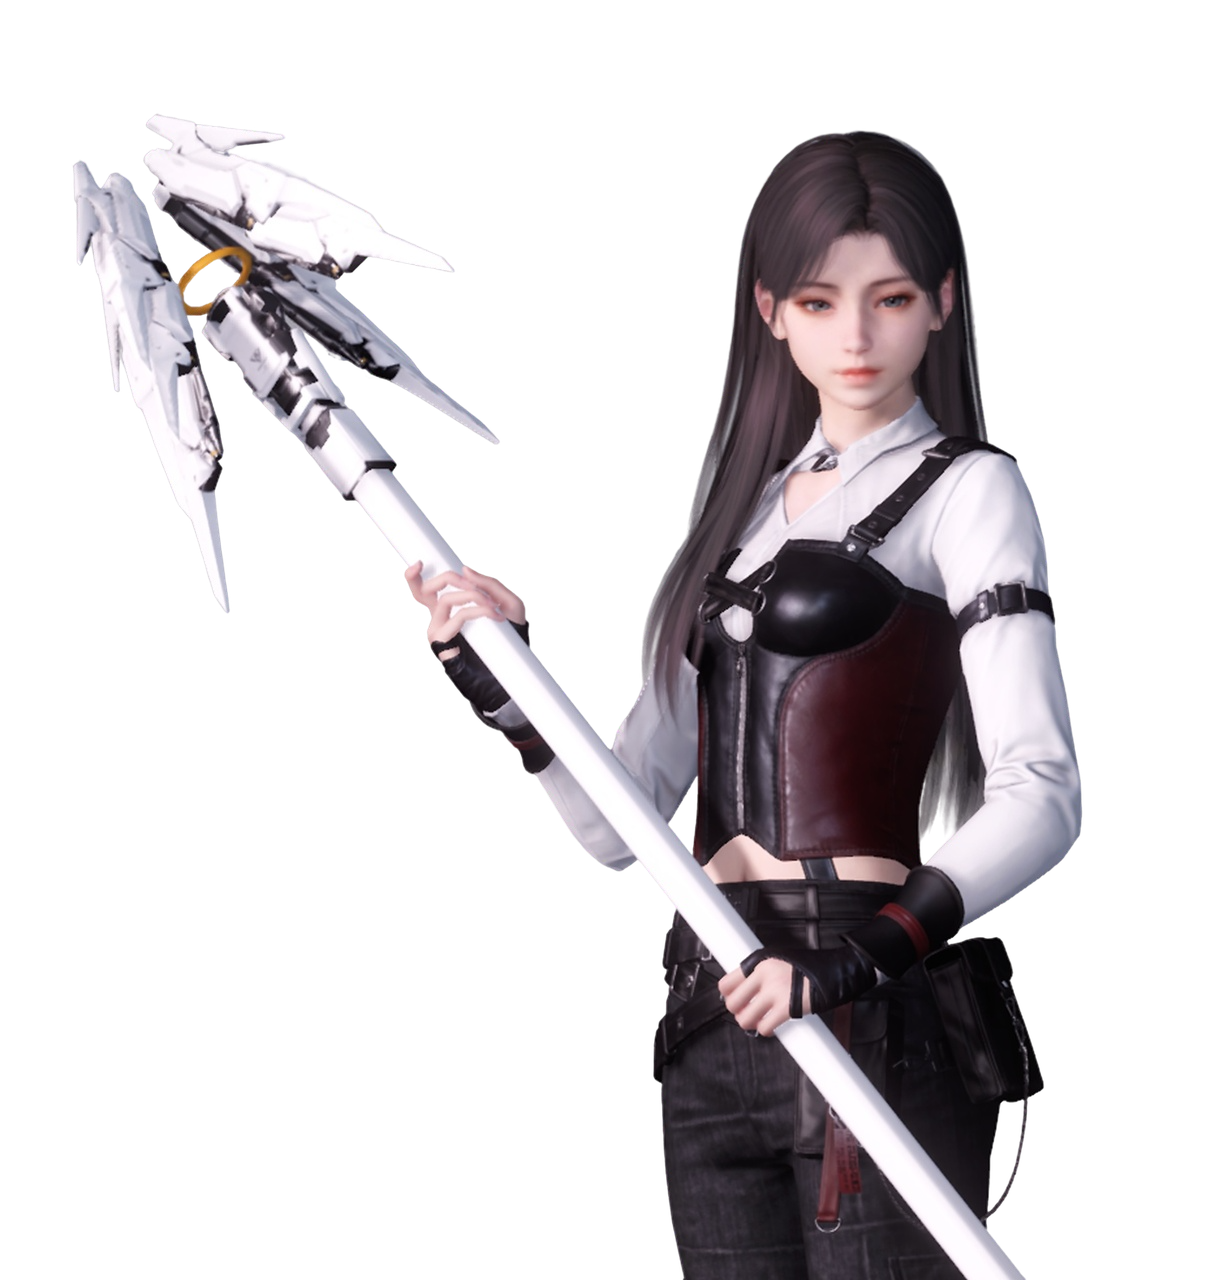
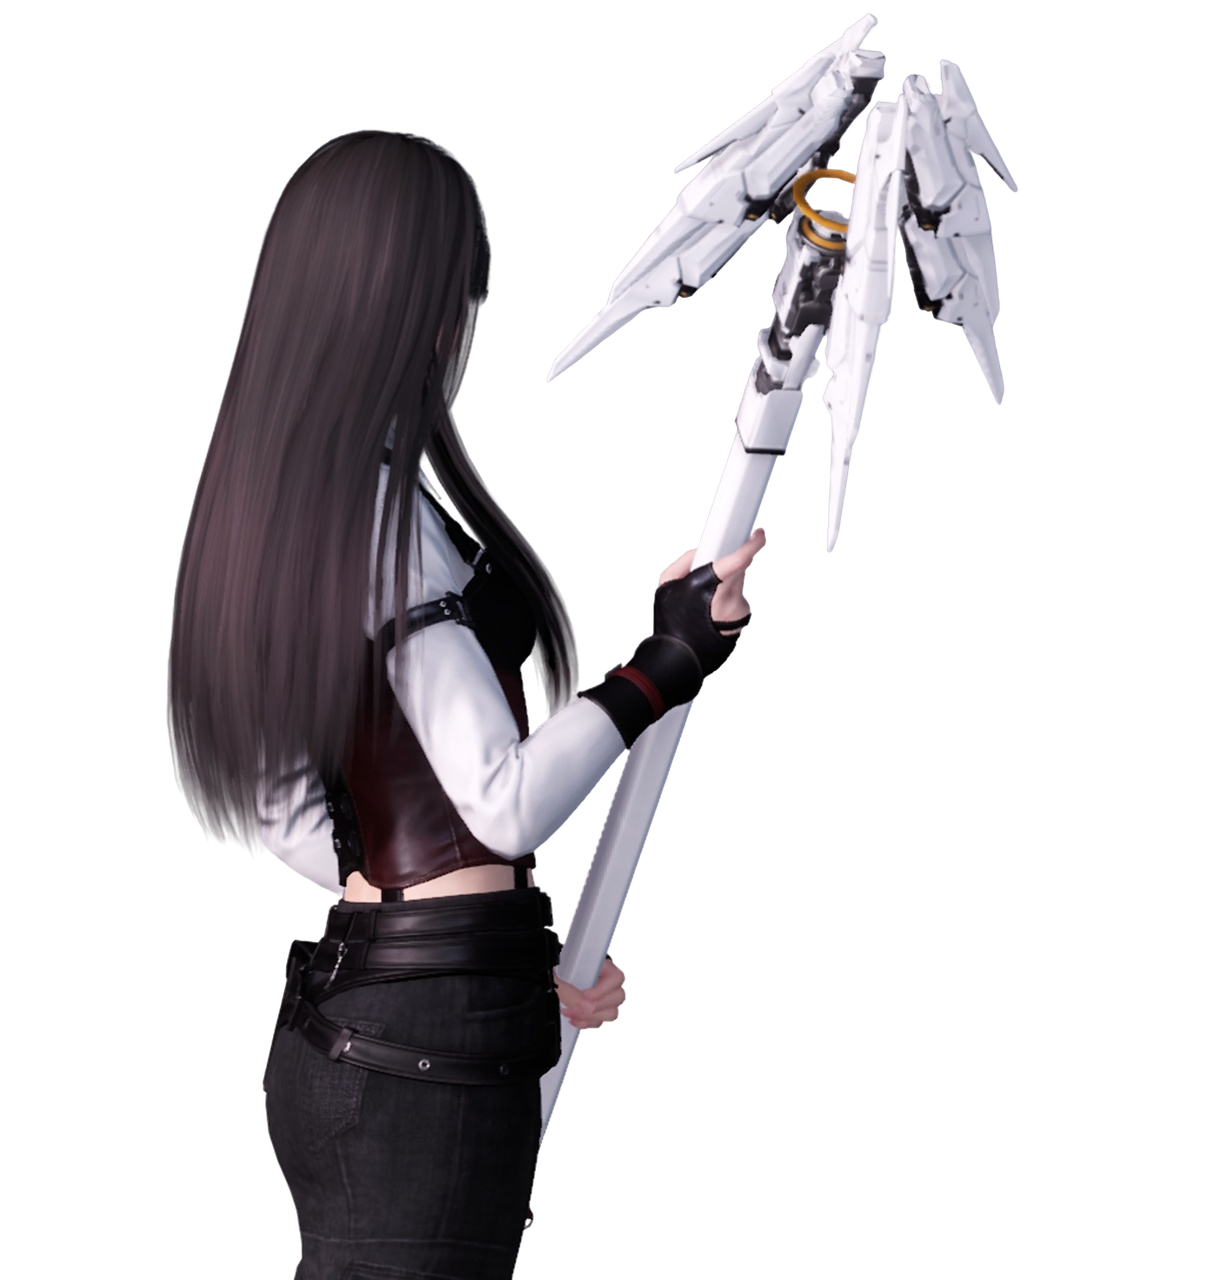
feat: change pic for battle companion article

diff --git a/src/components/CompanionArticlePage.module.css b/src/components/CompanionArticlePage.module.css
@@ -15,7 +15,7 @@
 }
 
 .portraitMC {
-    object-position: 30% center;
+    object-position: center;
 }
 
 .skillsContainer {
@@ -46,7 +46,8 @@
         flex-direction: column;
     }
 
-    .portrait {
+    .portraitComp,
+    .portraitMC {
         margin-top: 0;
 
         width: 100%;
